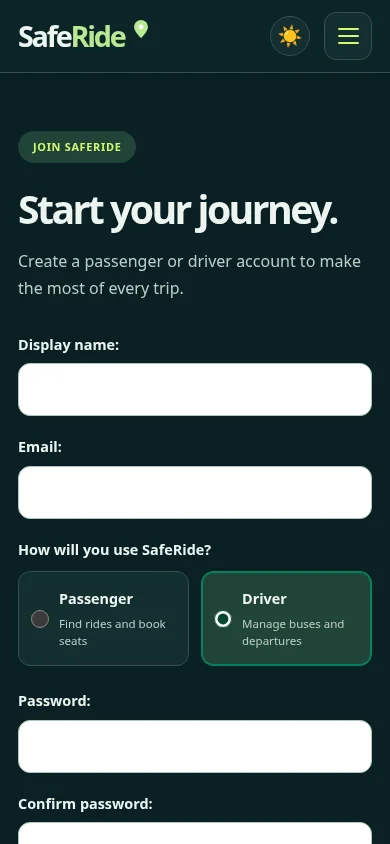
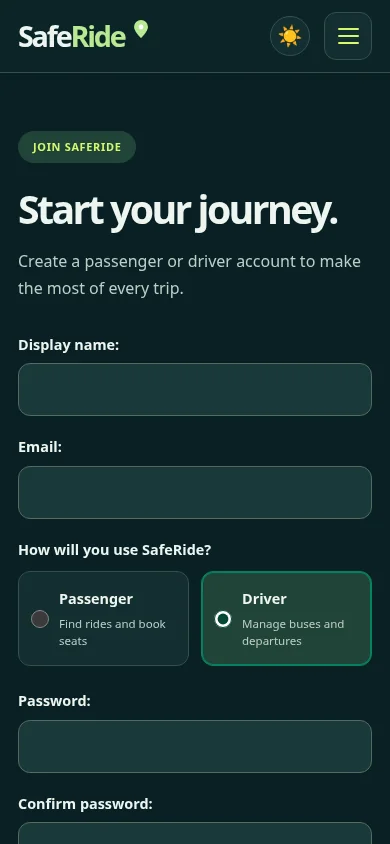
fix(auth): preserve dark input contrast while excluding radio controls

diff --git a/static/css/auth.css b/static/css/auth.css
@@ -6,8 +6,8 @@
 .auth-form{margin-top:32px;max-width:490px}
 .form-field{margin-bottom:20px}
 .form-field>label{display:block;font-weight:750;color:var(--ink);font-size:.9rem;margin-bottom:7px}
-.form-field input:not([type=checkbox]):not([type=radio]),.form-field select,.form-field textarea{display:block;width:100%;max-width:100%;min-height:52px;border:1px solid #afc6bb;color:var(--ink);background:#fff;border-radius:12px;padding:13px 16px;appearance:auto}
-.form-field input:not([type=checkbox]):not([type=radio]):focus,.form-field select:focus,.form-field textarea:focus{outline:3px solid #b4dfd0;outline-offset:2px;border-color:var(--green)}
+.form-field input:not([type=checkbox],[type=radio]),.form-field select,.form-field textarea{display:block;width:100%;max-width:100%;min-height:52px;border:1px solid #afc6bb;color:var(--ink);background:#fff;border-radius:12px;padding:13px 16px;appearance:auto}
+.form-field input:not([type=checkbox],[type=radio]):focus,.form-field select:focus,.form-field textarea:focus{outline:3px solid #b4dfd0;outline-offset:2px;border-color:var(--green)}
 .form-field--error input,.form-field--error select,.form-field--error textarea{border-color:#a83929!important}
 .form-field--checkbox{margin:21px 0}
 .checkbox-row{display:flex;gap:12px;align-items:flex-start}

diff --git a/scripts/browser_release_check.py b/scripts/browser_release_check.py
@@ -87,6 +87,21 @@ with sync_playwright() as playwright:
                 bounds = radio.bounding_box()
                 assert bounds and 16 <= bounds["width"] <= 24 and 16 <= bounds["height"] <= 24
             assert page.evaluate("document.documentElement.scrollWidth <= innerWidth")
+            # Empty fields can escape an automated text-contrast audit. Verify
+            # actual input foreground/background colours, including dark mode.
+            for theme in ("light", "dark"):
+                page.evaluate("theme => document.documentElement.dataset.theme = theme", theme)
+                contrast = page.locator('[name="display_name"]').evaluate("""input => {
+                    const style = getComputedStyle(input);
+                    const luminance = colour => colour.match(/[\\d.]+/g).slice(0, 3)
+                        .map(Number).map(v => v / 255)
+                        .map(v => v <= .04045 ? v / 12.92 : ((v + .055) / 1.055) ** 2.4)
+                        .reduce((sum, v, i) => sum + v * [.2126, .7152, .0722][i], 0);
+                    const a = luminance(style.color), b = luminance(style.backgroundColor);
+                    return (Math.max(a, b) + .05) / (Math.min(a, b) + .05);
+                }""")
+                assert contrast >= 4.5, (width, theme, contrast)
+            page.evaluate("document.documentElement.dataset.theme = 'light'")
             page.screenshot(path=str(OUT / f"signup-role-{width}.png"))
         role_group.get_by_role("radio", name=re.compile("Passenger")).focus()
         page.keyboard.press("ArrowRight")

diff --git a/docs/evidence/signup/README.md b/docs/evidence/signup/README.md
@@ -31,3 +31,8 @@ Actual local Chromium evidence, 15 October 2026:
 Screenshots contain blank account fields, not the personal information from the
 user's reference screenshot. The corrected interface is on the feature branch;
 this evidence does not claim a production deployment.
+
+The final text-field selector excludes both checkbox and radio types in a single
+:not() list, preserving dark-theme selector priority. Actual computed text/input
+background contrast was checked at all five widths in both themes (see
+text-contrast.json); the release browser check now enforces at least 4.5:1.
